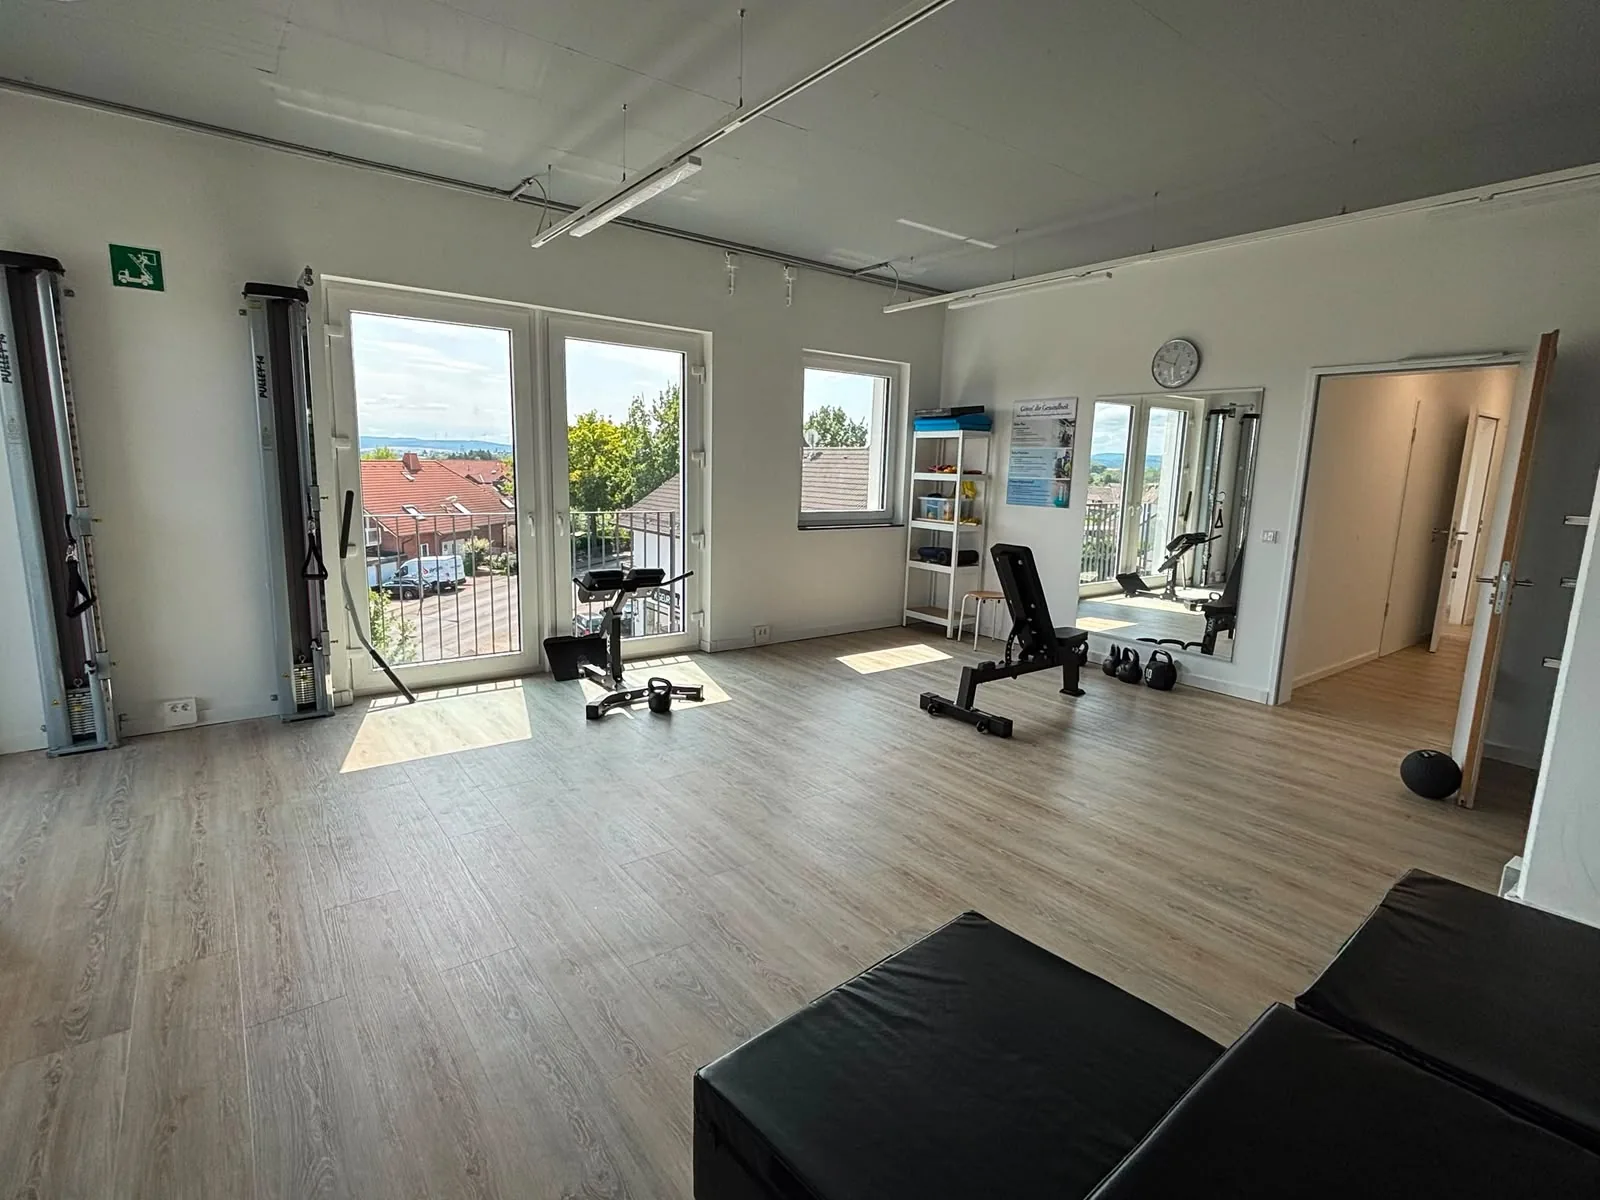
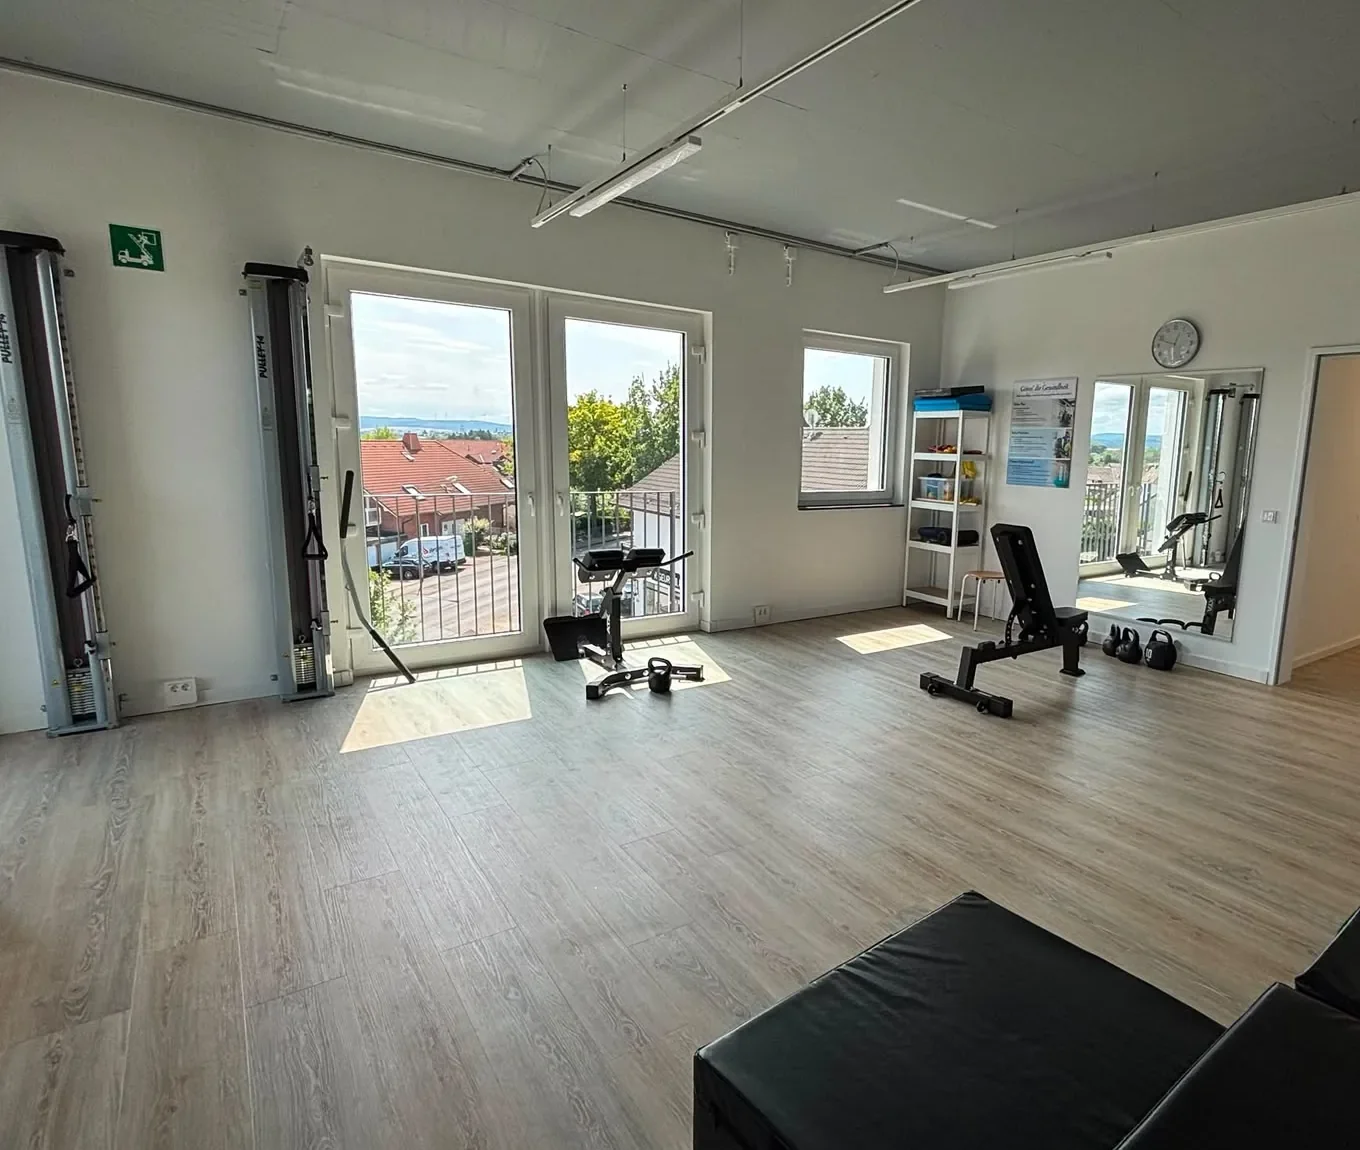
Bilder zugeschnitten: trainingsflaeche-hoch (880x1270), trainingsflaeche-weit (1360x1150)

diff --git a/site/index.html b/site/index.html
@@ -141,7 +141,7 @@
       </div>
 
       <figure class="frame services__band">
-        <img src="assets/img/trainingsflaeche-hoch.webp?v=2" width="1200" height="1600"
+        <img src="assets/img/trainingsflaeche-hoch.webp?v=5" width="880" height="1270"
              alt="Trainingsfläche der Praxis mit Sprossenwand, Zugapparat und Hantelbank, Tageslicht durch bodentiefe Fenster">
       </figure>
 
@@ -398,7 +398,7 @@
       </div>
 
       <figure class="frame praxis__photo">
-        <img src="assets/img/trainingsflaeche-weit.webp" width="1600" height="1200" loading="lazy"
+        <img src="assets/img/trainingsflaeche-weit.webp?v=6" width="1360" height="1150" loading="lazy"
              alt="Weite Trainingsfläche mit Seilzügen, Hantelbank und Spiegelwand, Fensterfront über den Dächern des Ortes">
       </figure>
 
